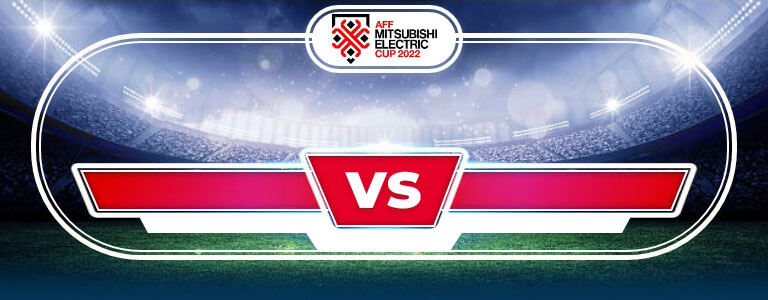
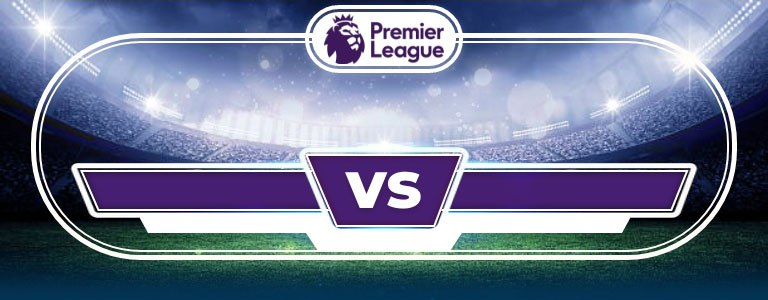
add epl match

diff --git a/packages/app/features/home/Section/MatchesSection.tsx b/packages/app/features/home/Section/MatchesSection.tsx
@@ -1,5 +1,6 @@
 import { CONTENT_URI, MEDIA_DOMAIN } from '@env'
 import Image from 'app/components/common/Image'
+import MatchNameMapping from 'app/config/matches/MatchNameMapping'
 import useContainerDimension from 'app/hooks/useContainerDimension'
 import useInterval from 'app/hooks/useInterval'
 import TouchableOpacity from 'app/pressable/TouchableOpacity'
@@ -26,7 +27,6 @@ const animationState = {
 const MatchesSection = () => {
   const { width } = useContainerDimension()
   const [activeIndex, setActiveIndex] = useState<number>(0)
-  const dispatch = useDispatch()
 
   const { matches } = useGetRecoMatchQuery(undefined, {
     selectFromResult: (s) => {
@@ -205,7 +205,7 @@ const MatchCol = ({ image, name, nameFontSize, odd, oddFontSize }) => {
             {...animationState}
             sx={{ fontSize: nameFontSize, lineHeight: nameFontSize * 1.2 }}
           >
-            {name}
+            {MatchNameMapping[name]}
           </CountryLabel>
         </AnimatePresence>
       </View>
@@ -243,10 +243,12 @@ const Flag = ({ image }) => {
           from={{ scaleX: 0 }}
           animate={{ scaleX: 1, opacity: 1 }}
           exit={{ scaleX: 0 }}
+          resizeMode="contain"
           style={{
-            height: '100%',
+            margin: '5%',
+            height: '90%',
             aspectRatio: 1,
-            width: '100%',
+            width: '90%',
             ...StyleSheet.absoluteFillObject,
           }}
           source={{
@@ -286,9 +288,9 @@ const CountryLabel = styled(motify(Text)())({
 const FlagIcon = motify(Image)()
 
 function getFlagPath(country: string) {
-  return `${MEDIA_DOMAIN}/${CONTENT_URI}/flags/${country
+  return `${MEDIA_DOMAIN}${CONTENT_URI}/flags/${country
     .toLowerCase()
-    .replace(/\s/g, '')}.png`
+    .replace(/[^a-zA-Z0-9]/g, '')}.png`
 }
 
 export default MatchesSection

diff --git a/packages/app/config/matches/MatchNameMapping.ts b/packages/app/config/matches/MatchNameMapping.ts
@@ -1,0 +1,48 @@
+const MatchNameMapping = {
+  'Manchester United': 'Man Utd',
+  Liverpool: 'Liverpool',
+  'Manchester City': 'Man City',
+  'Leicester City': 'Leicester',
+  Everton: 'Everton',
+  'Tottenham Hotspur': 'Spurs',
+  'Aston Villa': 'Aston Villa',
+  Chelsea: 'Chelsea',
+  'West Ham United': 'West Ham',
+  Arsenal: 'Aresenal',
+  'Leeds United': 'Leeds',
+  'Crystal Palace': 'Crystal Palace',
+  'Wolverhampton Wanderers': 'Wolves',
+  'Newcastle United': 'Newcastle',
+  Burnley: 'Burnley',
+  Fulham: 'Fulham',
+  'West Bromwich Albion': 'West Brom',
+  'Sheffield United': 'Sheffield United',
+  'AFC Bournemouth': 'Bournemouth',
+  Brentford: 'Brentford',
+  'Brighton and Hove Albion': 'Brighton',
+  'Nottingham Forest': 'Nottm Forest',
+  Southampton: 'Southampton',
+  'Birmingham City': 'Birmingham',
+  'Blackburn Rovers': 'Blackburn Rovers',
+  Blackpool: 'Blackpool',
+  'Bristrol City': 'Bristrol City',
+  'Cardiff City': 'Cardiff City',
+  'Coventry City': 'Coventry',
+  'Huddersfield Town': 'Huddersfield',
+  'Hull City': 'Hull City',
+  Luton: 'Luton',
+  Middlesbrough: 'Middlesbrough',
+  Millwall: 'Millwall',
+  'Norwich City': 'Norwich',
+  'Preston North End': 'Preston',
+  'Queens Park Rangers': 'QPR',
+  Reading: 'Reading',
+  'Rotherham United': 'Rotherham',
+  'Stoke City': 'Stoke',
+  Sunderland: 'Sunderland',
+  'Swansea City': 'Swansea',
+  Watford: 'Watford',
+  'Wigan Athletic': 'Wigan',
+}
+
+export default MatchNameMapping
